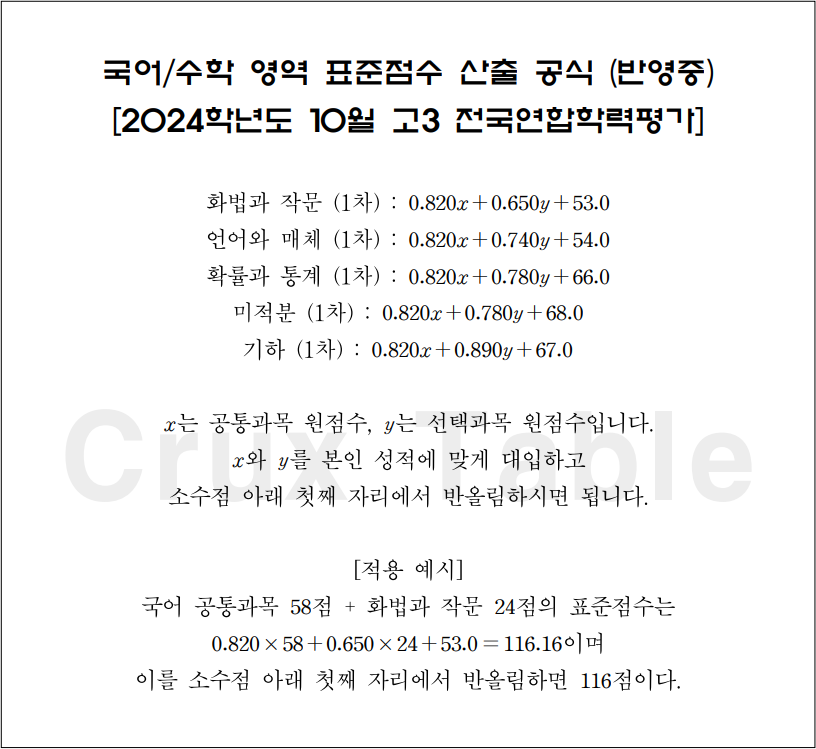
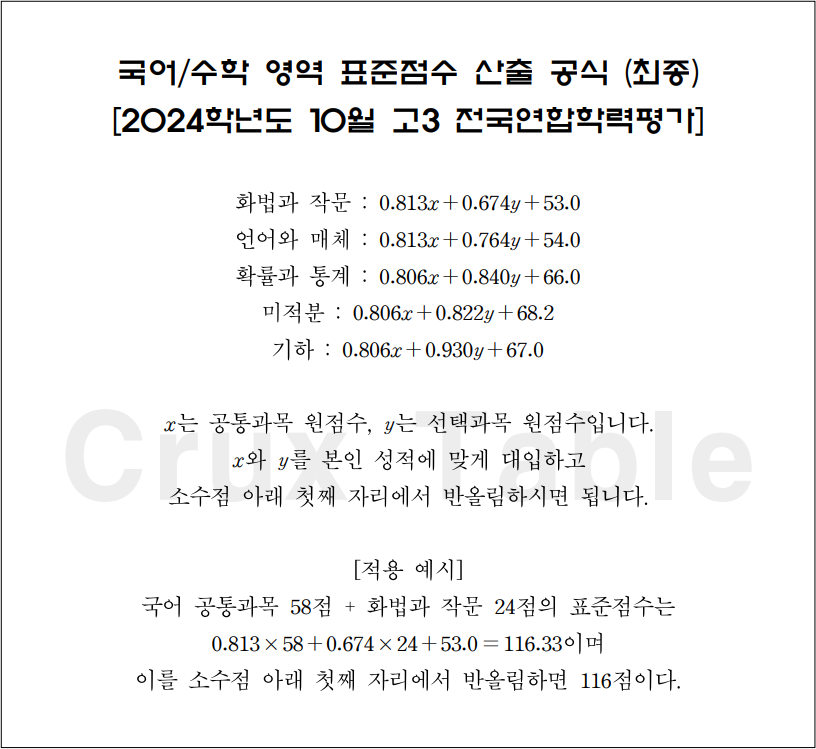
202410final

diff --git a/js/data.js b/js/data.js
@@ -10495,8 +10495,8 @@ let data = {
     "2024103rd": {
         "국어": [
             {
-                "화법과 작문" : [0.820, 0.650, 53.0],
-                "언어와 매체" : [0.820, 0.740, 54.0]
+                "화법과 작문" : [0.813, 0.674, 53.0],
+                "언어와 매체" : [0.813, 0.764, 54.0]
             },
             ["134", "99.75", "1"],
 ["133", "99.34", "1"],
@@ -10584,9 +10584,9 @@ let data = {
         
     "수학": [
         {
-            "확률과 통계" : [0.820, 0.780, 66.0],
-            "미적분" : [0.820, 0.780, 68.0],
-            "기하" : [0.820, 0.890, 67.0]
+            "확률과 통계" : [0.806, 0.840, 66.0],
+            "미적분" : [0.806, 0.822, 68.2],
+            "기하" : [0.806, 0.930, 67.0]
         },
         ["151", "100.00", "1"],
 ["149", "99.82", "1"],
